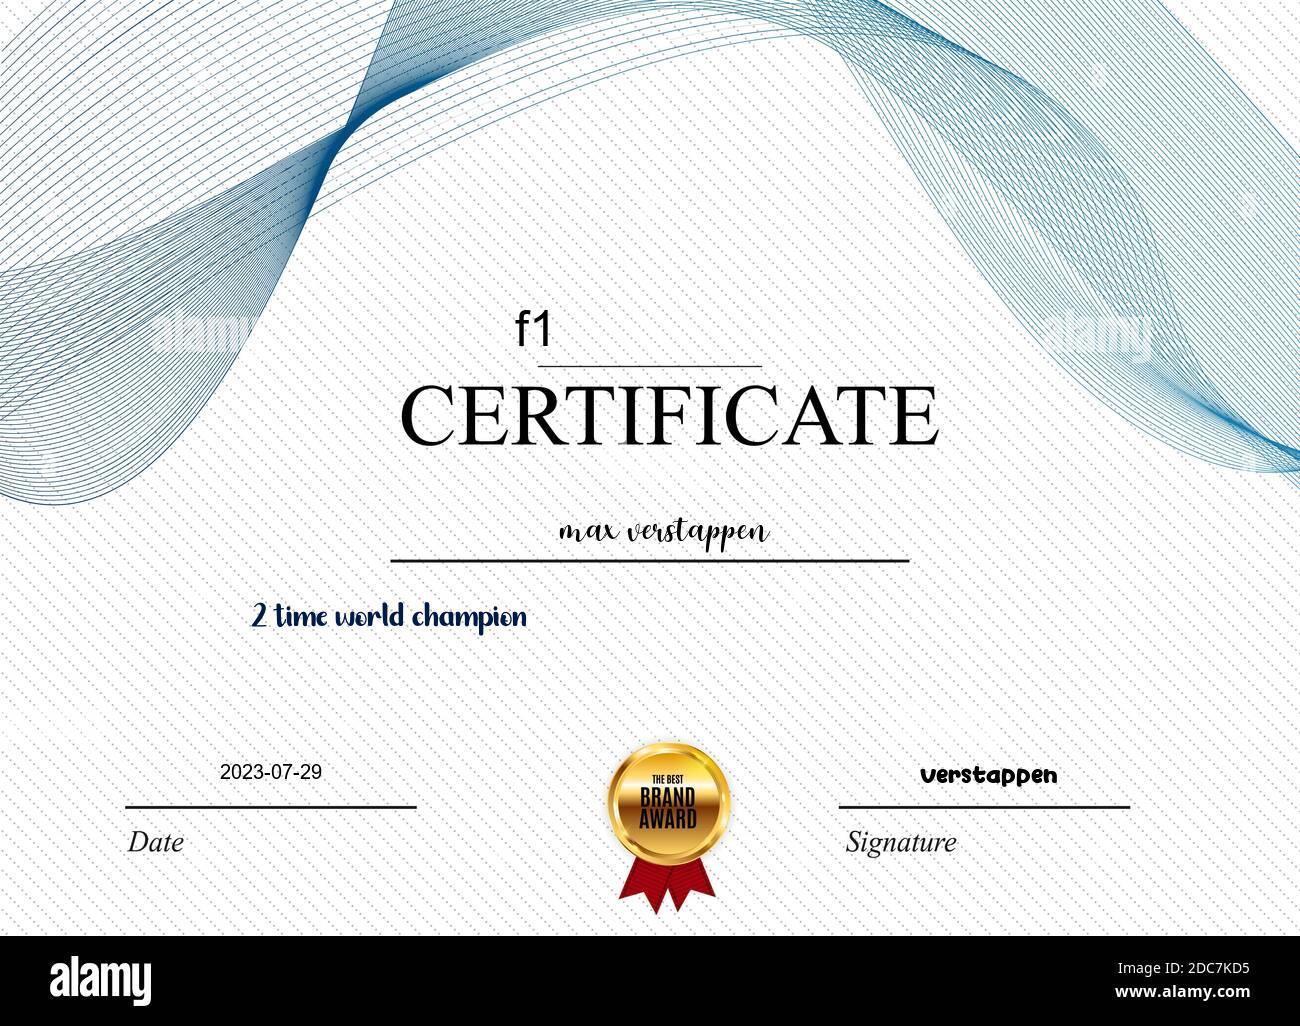
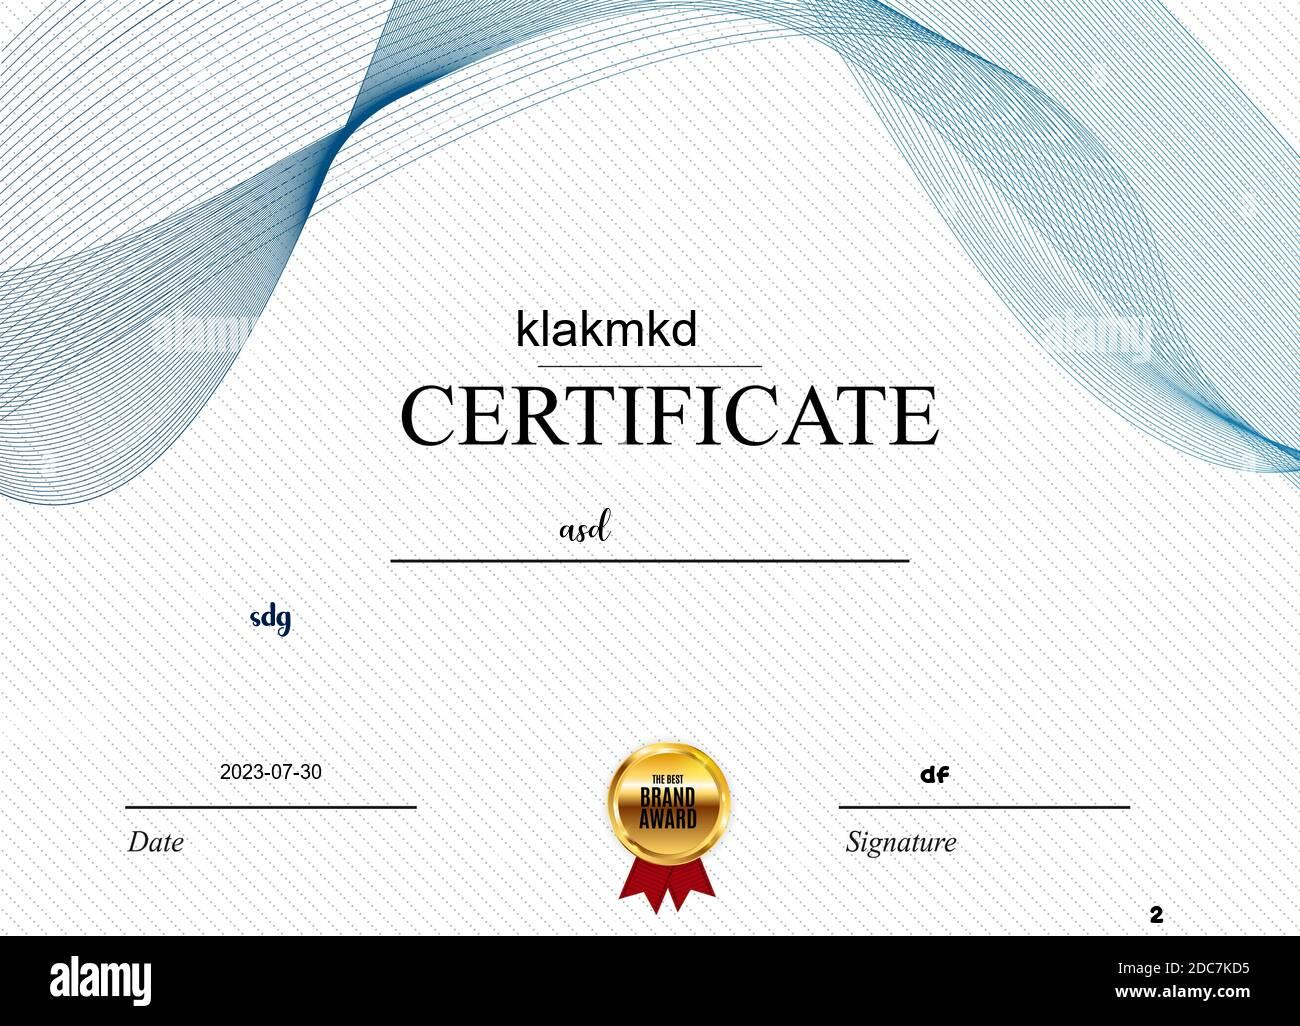
modified:   certificate_gen/__pycache__/forms.cpython-39.pyc 	modified:   certificate_gen/__pycache__/models.cpython-39.pyc 	modified:   certificate_gen/__pycache__/views.cpython-39.pyc 	modified:   certificate_gen/forms.py 	new file:   certificate_gen/migrations/0002_remove_certificate_model_id_and

diff --git a/certificate_gen/static/certificate_gen/mystyle.css b/certificate_gen/static/certificate_gen/mystyle.css
@@ -82,8 +82,8 @@ nav {
   height: 100px;
   width: 350px;
   padding: 10px;
-  background-color: #6cafeb;
-  color: black;
+  background-color: #007bff;
+  color: white;
   font-size: 20px;
   font-weight: bolder;
   margin-top: 50px;
@@ -94,6 +94,7 @@ nav {
 .home_gen_button:hover{
 transform: scale(1.05);
   cursor: pointer;
+  background-color: #007bff;
 }
 
 #welcome_text{

diff --git a/certificate_gen/views.py b/certificate_gen/views.py
@@ -15,7 +15,8 @@ def form_view(request):
 	print(request.headers)
 	return render(request,'certificate_gen/form.html')
 
-def generate_certificate(title, name, subtitle, date, signature):
+def generate_certificate(title, name, subtitle, date, signature, certificate_num):
+
     subtitle_1 = ''
     if len(subtitle) > 30:
         subtitle_1 = subtitle[30:]
@@ -51,7 +52,6 @@ def generate_certificate(title, name, subtitle, date, signature):
     if subtitle_1 != '':
         field = 'subtitle_1'
         text_x, text_y, font = field_type(field)
-        text_width, text_height = draw.textsize(subtitle_1, font=font)
         image_width, image_height = image.size
         text_color = (1, 27, 69)
         draw.text((text_x, text_y), subtitle_1, font=font, fill=text_color)
@@ -71,12 +71,11 @@ def generate_certificate(title, name, subtitle, date, signature):
     draw.text((text_x, text_y), signature, font=font, fill=text_color)
 
 
-    # field = 'certificate_num'
-    # text_x, text_y, font = field_type(field)
-    # text_width, text_height = draw.textsize(certificate_num, font=font)
-    # image_width, image_height = image.size
-    # text_color = (0, 0, 0)
-    # draw.text((text_x, text_y), certificate_num, font=font, fill=text_color)
+    field = 'certificate_num'
+    text_x, text_y, font = field_type(field)
+    image_width, image_height = image.size
+    text_color = (0, 0, 0)
+    draw.text((text_x, text_y), certificate_num, font=font, fill=text_color)
 
 
     certificate_folder = os.path.join('static', 'certificates')
@@ -97,7 +96,6 @@ def field_type(field):
 		text_y = 300
 		text_color = (235, 64, 52)
 		return text_x,text_y, font
-
 	
 	elif field == 'name':
 		text_x = 560
@@ -153,7 +151,13 @@ def form_handle(request):
             subtitle = form.cleaned_data['subtitle']
             date = str(form.cleaned_data['date'])
             signature = form.cleaned_data['signature']
-            generated_certificate_file = generate_certificate(title, name, subtitle, date, signature)
+	    
+            new_certificate_model = form.save(commit=False)
+            new_certificate_model.save()
+            certificate_num = new_certificate_model.certificate_number
+            certificate_num = str(certificate_num)
+
+            generated_certificate_file = generate_certificate(title, name, subtitle, date, signature,certificate_num)
             # certificate_file = form.cleaned_data['certificate_file']
 
             image_io = BytesIO()
@@ -161,7 +165,7 @@ def form_handle(request):
             image_file = ContentFile(image_io.getvalue(), name='certificate.jpg')
 
             # Save the form data to the model
-            new_certificate_model = form.save(commit=False)
+            # new_certificate_model = form.save(commit=False)
             file_name = name+'.jpg'
             new_certificate_model.certificate_file.save(file_name, image_file, save=True)
 

diff --git a/certificate_gen/migrations/0002_remove_certificate_model_id_and_more.py b/certificate_gen/migrations/0002_remove_certificate_model_id_and_more.py
@@ -1,0 +1,28 @@
+# Generated by Django 4.1.2 on 2023-07-30 09:21
+
+from django.db import migrations, models
+
+
+class Migration(migrations.Migration):
+    dependencies = [
+        ("certificate_gen", "0001_initial"),
+    ]
+
+    operations = [
+        migrations.RemoveField(
+            model_name="certificate_model",
+            name="id",
+        ),
+        migrations.AddField(
+            model_name="certificate_model",
+            name="certificate_number",
+            field=models.CharField(
+                default="DEFAULT_VALUE",
+                editable=False,
+                max_length=6,
+                primary_key=True,
+                serialize=False,
+                unique=True,
+            ),
+        ),
+    ]

diff --git a/certificate_gen/migrations/0004_alter_certificate_model_options_and_more.py b/certificate_gen/migrations/0004_alter_certificate_model_options_and_more.py
@@ -1,0 +1,21 @@
+# Generated by Django 4.1.2 on 2023-07-30 09:38
+
+from django.db import migrations, models
+
+
+class Migration(migrations.Migration):
+    dependencies = [
+        ("certificate_gen", "0003_alter_certificate_model_options"),
+    ]
+
+    operations = [
+        migrations.AlterModelOptions(
+            name="certificate_model",
+            options={},
+        ),
+        migrations.AlterField(
+            model_name="certificate_model",
+            name="certificate_number",
+            field=models.AutoField(primary_key=True, serialize=False),
+        ),
+    ]

diff --git a/certificate_gen/models.py b/certificate_gen/models.py
@@ -2,9 +2,16 @@ from django.db import models
 
 # Create your models here.
 class certificate_model(models.Model):
+	certificate_number = models.AutoField(primary_key=True)
 	title = models.CharField(max_length=40)
 	name = models.CharField(max_length=40)
 	subtitle = models.CharField(max_length=255)
 	date = models.DateField()
 	signature = models.CharField(max_length=10)
 	certificate_file = models.ImageField(upload_to='certificates')
+
+	def __str__(self):
+		return str(self.certificate_number)
+
+
+	

diff --git a/certificate_gen/migrations/0003_alter_certificate_model_options.py b/certificate_gen/migrations/0003_alter_certificate_model_options.py
@@ -1,0 +1,16 @@
+# Generated by Django 4.1.2 on 2023-07-30 09:35
+
+from django.db import migrations
+
+
+class Migration(migrations.Migration):
+    dependencies = [
+        ("certificate_gen", "0002_remove_certificate_model_id_and_more"),
+    ]
+
+    operations = [
+        migrations.AlterModelOptions(
+            name="certificate_model",
+            options={"ordering": ["-certificate_number"]},
+        ),
+    ]
